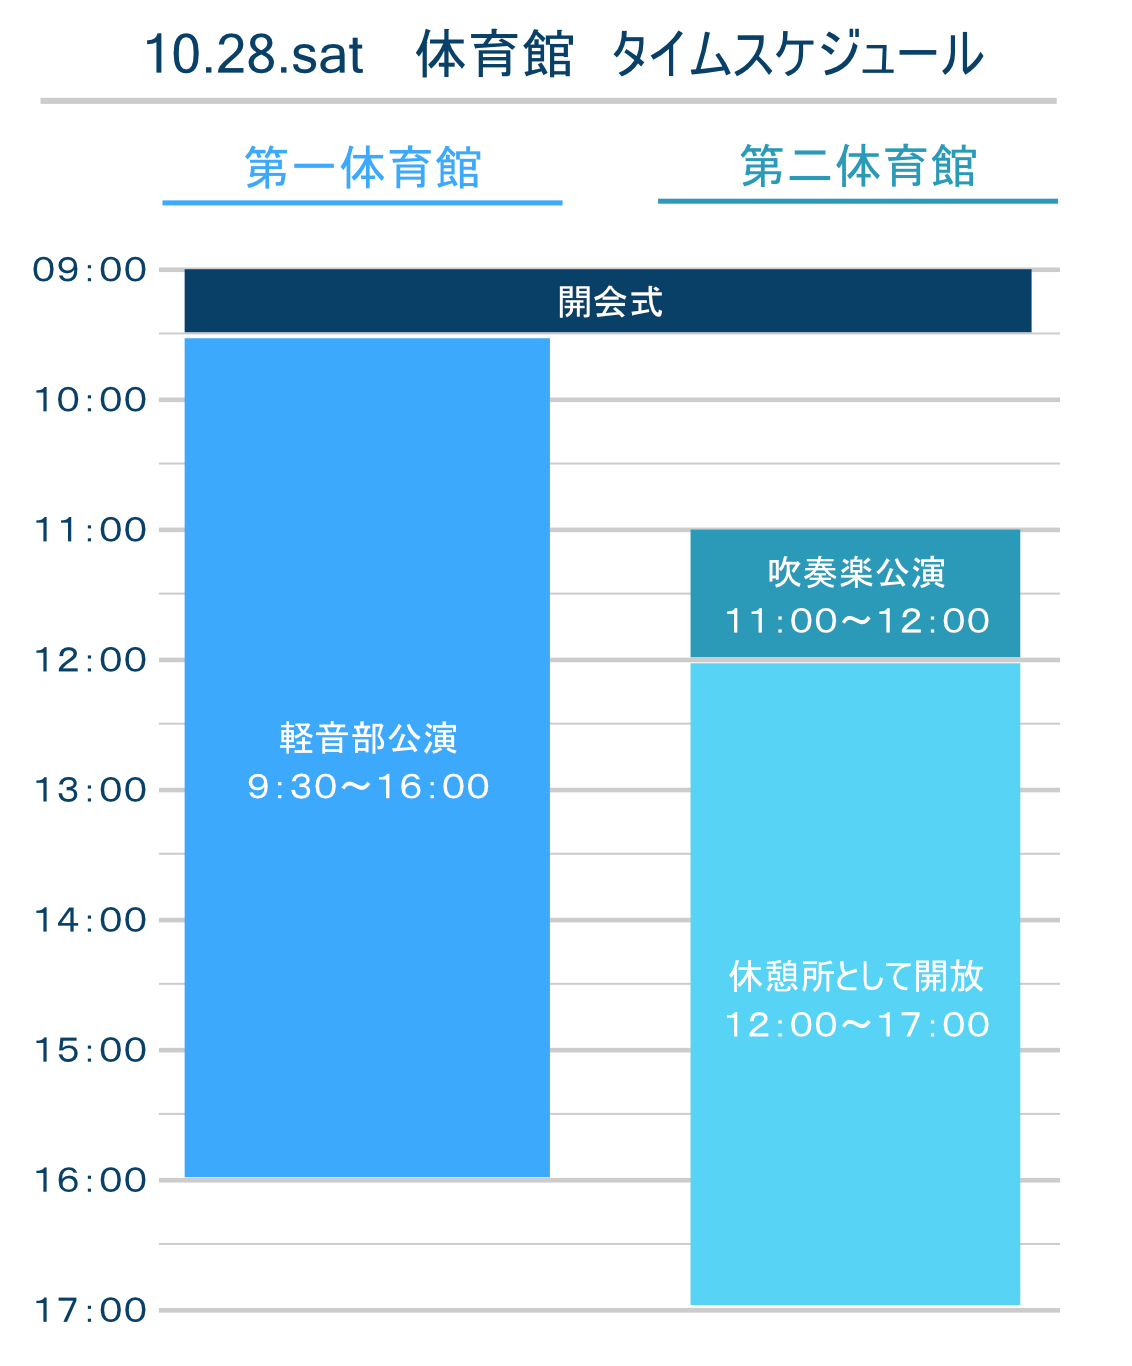
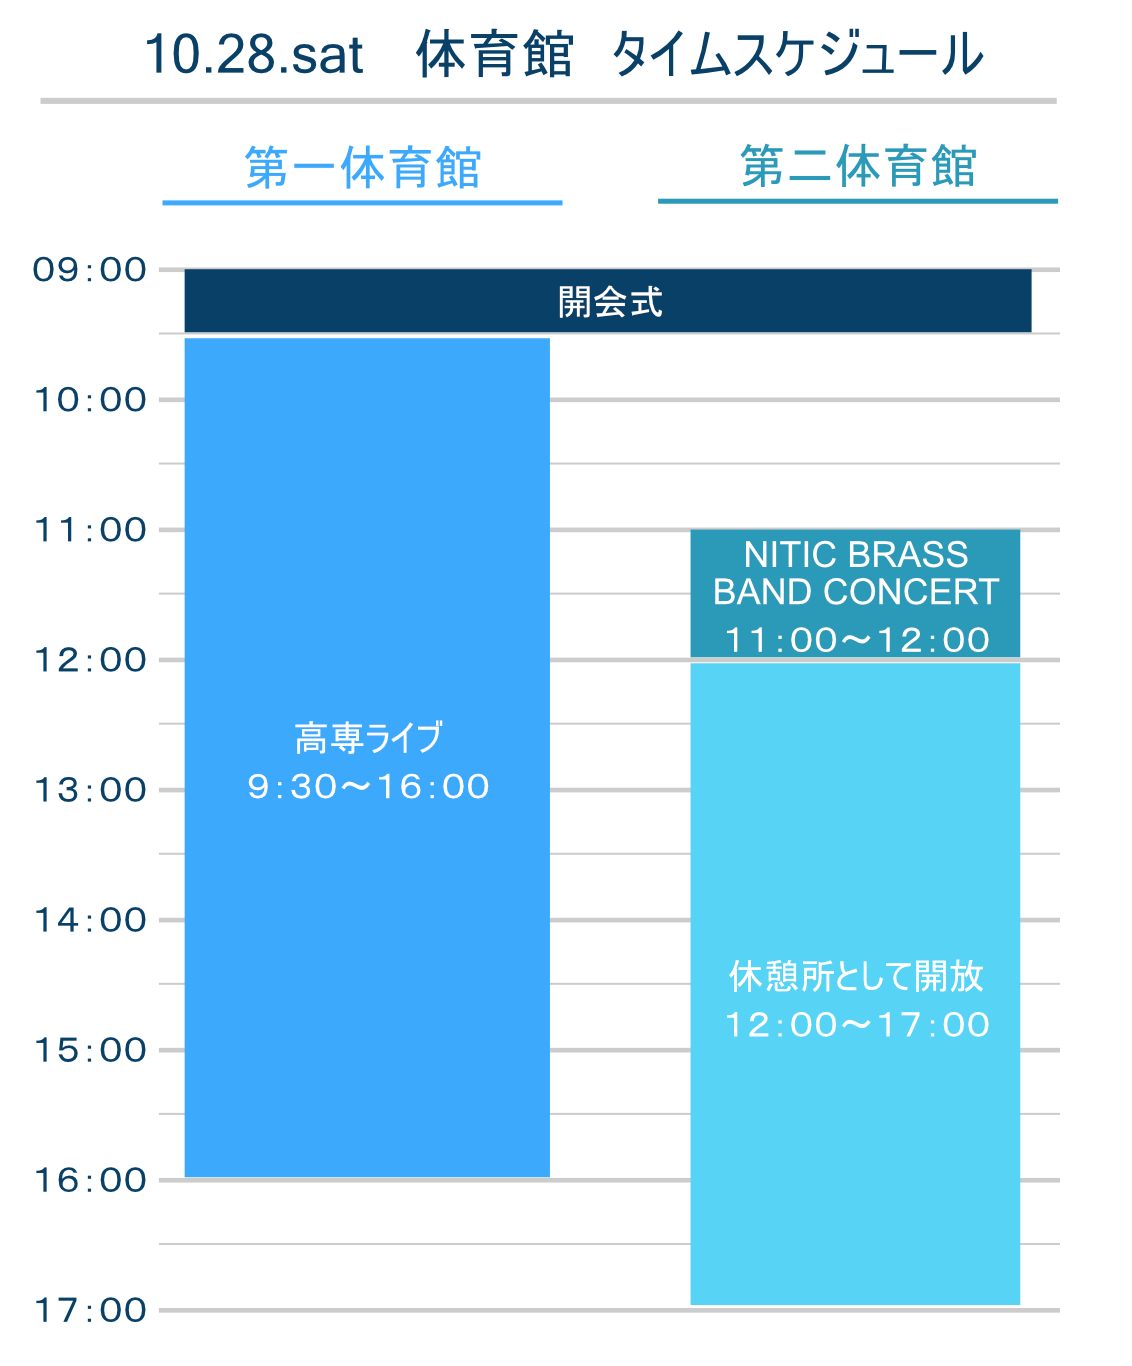
あとカラオケのアイコンだけ

Changed region(s): [[0.6184, 0.3997, 0.8966, 0.4919], [0.2473, 0.5227, 0.4019, 0.5534]]

diff --git a/plan.html b/plan.html
@@ -41,7 +41,7 @@
               <!-- 画面サイズがmd以下になった時の表示 -->
               <div class="col-5 d-md-none d-block">
                 <ul class="nav">
-                    <i class="bi bi-list" style="z-index: 3;" id="sumaho_i"></i>
+                    <i class="bi bi-list"  id="sumaho_i"></i>
                 </ul>
               </div>
             </div>
@@ -97,7 +97,7 @@
                             <li id="n8"><a href="#m8">らあめん屋猛拳</a></li>    
                             <li id="n9"><a href="#m9">#高専ワッフル</a></li>    
                             <li id="n10"><a href="#m10">International kitchen</a></li>
-                            <li id="n11"><a href="#m11">たかなしのホットドッグ屋さん</a></li>
+                            <li id="n11"><a href="#m11">高梨のホットドッグ屋さん</a></li>
                             <li id="n12"><a href="#m12">米屋のカレーライス</a></li>    
                             <li id="n13"><a href="#m13">スイーツコンシェルジュが創るフレンチトースト</a></li>    
                             <li id="n14"><a href="#m14">うちやなげやたのしめや 射的＆輪投げ</a></li>    
@@ -177,14 +177,14 @@
                         <div class="map_headline" ><h1><span class="Dnumber">4</span>　体育館</h1></div>
                         <img src="./image/28da.jpg" alt="">
                         <ol>
-                            <li id="n40"><a href="#m40">吹奏楽公演</a></li>
-                            <li id="n44"><a href="#m44">軽音部公演</a></li>
+                            <li id="n40"><a href="#m40">NITIC BRASS BAND CONCERT</a></li>
+                            <li id="n44"><a href="#m44">高専祭ライブ</a></li>
                         </ol>
                         
                         <img src="./image/29da.jpg" alt="" id="taiiku2">
                         <ol>
                             <li id="n412"><a href="#m41">ダンス部公演</a></li>
-                            <li id="n442"><a href="#m44">軽音部公演</a></li>
+                            <li id="n442"><a href="#m44">高専祭ライブ</a></li>
                         </ol>
                         
                     </div>
@@ -202,7 +202,7 @@
                         <plan-list id="m8" imgurl="./image/ramen.jpg" genre="屋台・ラーメン" headline="⑧らあめん屋猛拳" text="らあめん屋猛拳はこだわりの醤油ラーメンを提供します！ワンコイン一杯500円こだわりポイントは出汁！肉系出汁と魚介系出汁を合わせた柔道部が代々受け継いできたレシピです！最高の一杯を召し上がれ！！！" place="専攻科棟前屋台" href="#n8"></plan-list>
                         <plan-list id="m9" imgurl="./image/wa.png" genre="屋台・ワッフル" headline="⑨#高専ワッフル" text="ほーいいじゃないか、こういうのでいいんだよこういうので。この匂いたまらん。うまい、いかにもワッフルってワッフルだ。食欲がモリモリ湧いてくる。２００円でこの美味さ。うーん、期待を裏切らない味だ。" place="メディアセンター前屋台" href="#n9"></plan-list>
                         <plan-list id="m10" imgurl="./image/inter.jpeg" genre="屋台・トムヤムクン" headline="International kitchen" text="一関高専の留学生（ペルー、モンゴル、マレーシア、ブラジル、ナイジェリア）と仲間たちがタイの郷土料理トムヤムクンを提供します。本格的な風味にみんなも虜になるはず！1杯250円～です。ぜひご賞味ください！" place="メディアセンター前屋台" href="#n10"></plan-list>
-                        <plan-list id="m11" imgurl="./image/hot.png" genre="屋台・タコ焼き" headline="⑪たかなしのホットドッグ屋" text="私たちは、ホットドッグやホイップパン、ドリンクを販売します！<br>⭐メニュー⭐（各トッピング＋50円）<br>ホットドッグ：300円　ホイップパン：250円　ソーセージ：150円　ドリンク：100円　ドリンク3回券：250円" place="専攻科棟前屋台" href="#n11"></plan-list>
+                        <plan-list id="m11" imgurl="./image/hot.png" genre="屋台・ホットドッグ" headline="⑪高梨のホットドッグ屋" text="私たちは、ホットドッグやホイップパン、ドリンクを販売します！<br>⭐メニュー⭐（各トッピング＋50円）<br>ホットドッグ：300円　ホイップパン：250円　ソーセージ：150円　ドリンク：100円　ドリンク3回券：250円" place="専攻科棟前屋台" href="#n11"></plan-list>
                         <plan-list id="m12" imgurl="./image/yoneya.png" genre="屋台・カレー" headline="⑫米屋のカレーライス" text="新米を使用したカレーライスです。米の味を最大限活かすため各所と格闘しましたがレトルトカレーが限界だったんです。米はうまいです。" place="専攻科棟前屋台" href="#n12"></plan-list>
                         <plan-list id="m13" imgurl="./image/suitu.jpg" genre="展示・フレンチトースト" headline="⑬スイーツコンシェルジュが創るフレンチトースト" text="1個300円、2個ならなんと500円！<br>ふんわりとした食感と香り豊かなフレンチトーストをお楽しみ頂けます。お待ちしています！" place="専攻科棟前屋台" href="#n13"></plan-list>
                         <plan-list id="m14" imgurl="./image/utia.jpg" genre="屋台・体験" headline="⑭うちやなげやたのしめや 射的＆輪投げ" text="キミならどの景品を狙う？1回300円でここだけの豪華な景品が手に入るチャンス！参加者全員に必ず景品プレゼント。射的と輪投げでキミの腕前を試してみよう！子どもから大人まで！待ってます！" place="メディアセンター前屋台" href="#n14"></plan-list>
@@ -231,11 +231,11 @@
                         <plan-list id="m37" imgurl="./image/Mkei.png" genre="展示" headline="㊲機械・知能系展示" text="見て、ふれて。機会と知能の世界を感じてください。展示やモノづくり体験カリキュラムの紹介をしています！" place="教育科棟１階と２階" href="#n37"></plan-list>
                         <plan-list id="m38" imgurl="./image/Ekei.png" genre="展示" headline="㊳電気・電子系展示" text="電気のおもしろさを伝える展示ということで「静電気や放電現象の展示」「超伝導現象のデモ」「光通信のデモ」などロボットやパワーエレクトロニクスの研究ブースやってます。" place="教育科棟１階" href="#n38"></plan-list>
                         <plan-list id="m39" imgurl="./image/Ckei.png" genre="展示" headline="㊴化学・バイオ系展示" text="化学・バイオ系では、“閉鎖循環式陸上養殖”で、海洋性の魚介類を育てることができるプロジェクトをご紹介！さらに、私たち高専の得意分野である低コスト化に貢献するＤＸ技術の展示や実演も行います！" place="教育科棟２階" href="#n39"></plan-list>
-                        <plan-list id="m40" imgurl="./image/keion.png" genre="公演" headline="㊵吹奏楽公演" text="NITIC BRASS BAND CONCERT がやってくる！熱い演奏とエネルギッシュなステージで、みんなを魅了するぞ！話題の曲から定番曲まで、吹奏楽部が繰り広げる大迫力のパフォーマンスを楽しんでね！" place="第二体育館" href="#n40"></plan-list>
+                        <plan-list id="m40" imgurl="./image/keion.png" genre="公演" headline="㊵NITIC BRASS BAND CONCERT" text="NITIC BRASS BAND CONCERT がやってくる！熱い演奏とエネルギッシュなステージで、みんなを魅了するぞ！話題の曲から定番曲まで、吹奏楽部が繰り広げる大迫力のパフォーマンスを楽しんでね！" place="第二体育館" href="#n40"></plan-list>
                         <plan-list id="m41" imgurl="./image/danc.png" genre="公演" headline="㊶ダンス部公演" text="今年開催されたTGC teen 一関で披露した曲も踊ります!ダンス動画はダンス部のインスタに投稿されてるから覚えて一緒に踊ってみよう！" place="第一体育館" href="#n41"></plan-list>
                         <plan-list id="m42" imgurl="./image/yosa.jpg" genre="公演" headline="㊷よさこい演舞" text="一関高専よさこいチーム舞童です！メンバーの笑顔と活気溢れる躍りで皆さんに楽しんでいただけるよう、精一杯踊らせていただきますのでご声援の程よろしくお願いします！" place="第一体育館" href="#n42"></plan-list>
-                        <plan-list id="m43" imgurl="./image/schoolbadge.png" genre="公演" headline="㊸カラオケ大会" text="" place="第一体育館" href="#n43"></plan-list>
-                        <plan-list id="m44" imgurl="./image/keikie.jpg" genre="公演" headline="㊹軽音楽部公演" text="過去最強の音響とノリでお送りします!ぜひお越しください♪" place="第一体育館" href="#n44"></plan-list>
+                        <plan-list id="m43" imgurl="./image/schoolbadge.png" genre="公演" headline="㊸カラオケ大会" text="今年度のカラオケ大会王者の座は誰の手に！？※本校学生以外の方はご覧いただけません" place="第一体育館" href="#n44"></plan-list>
+                        <plan-list id="m44" imgurl="./image/keikie.jpg" genre="公演" headline="㊹高専祭ライブ" text="過去最強の音響とノリでお送りします!ぜひお越しください♪" place="第一体育館" href="#n44"></plan-list>
                     </div>
                     
                 </div>

diff --git a/plan.js b/plan.js
@@ -101,15 +101,16 @@ $(function(){
         $BurgerIcon.on("click",function(){
             if($BurgerMenu.hasClass("active")){
                 $BurgerMenu.removeClass("active");
+                $BurgerIcon.removeClass("active");
                 $BurgerIcon.removeClass("bi-x");
                 $BurgerIcon.addClass("bi-list");
-                $("body").css("overflow","auto");
-                
+                $('body').css('overflow', 'auto');
             }else{
                 $BurgerMenu.addClass("active");
+                $BurgerIcon.addClass("active");
                 $BurgerIcon.removeClass("bi-list");
                 $BurgerIcon.addClass("bi-x");
-                $("body").css("overflow", "hidden");
+                $('body').css('overflow', 'hidden');
             }
         })
 })
@@ -220,6 +221,7 @@ window.addEventListener("load", () => {
     @media screen and (max-width: 768px){
         .list_content{
                 width: 350px;
+                margin:20px auto;
             }
         }
     }
@@ -278,7 +280,7 @@ window.addEventListener("load", () => {
                     smoothScroll("kyouikuka2")
                 }else if(23==subint||subint==24||subint==26||subint==31){
                     smoothScroll("kyouikuka3")
-                }else if(40==subint||subint==44){
+                }else if(40==subint||subint==44||subint==43){
                     smoothScroll("taiiku1")
                 }
             }else if(firstChar=="m"){

diff --git a/plan.css b/plan.css
@@ -80,7 +80,7 @@ header .title{
     font-family: serif;
 }
 #sumaho_i{
-    z-index: 999; 
+    z-index: 9999; 
     position: fixed;
     right: 15px;
     color: white;
@@ -95,7 +95,7 @@ header .title{
     color: white;
 }
 #sumaho_burger{
-    z-index: 2;
+    z-index: 333;
     background-color: rgb(100, 169, 199);
     width: 100%;
     height: 100vh;
@@ -185,7 +185,7 @@ header .title{
 }
 .list_backgroud{
     display: flex;
-    
+    justify-content: center;
     flex-wrap: wrap;
     align-items: center;
     max-width: 1300px;
@@ -442,7 +442,7 @@ header .title{
 footer{
     width: 100%;
     min-height: 280px;
-    z-index: 3333;
+    z-index: 33;
     position: relative;
 }
 div.address {
